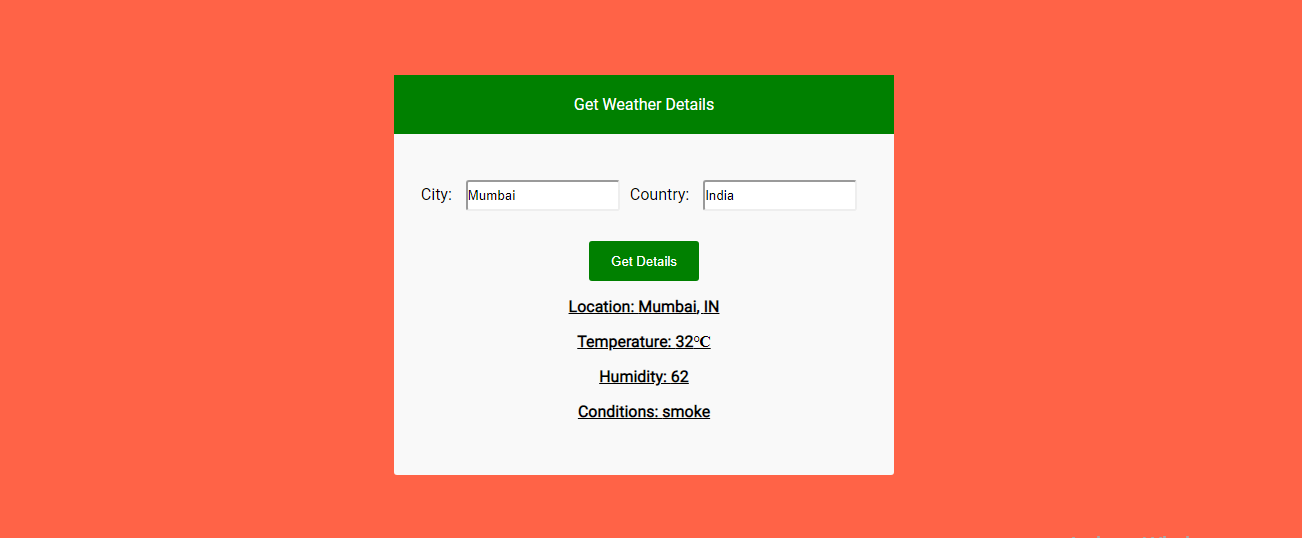
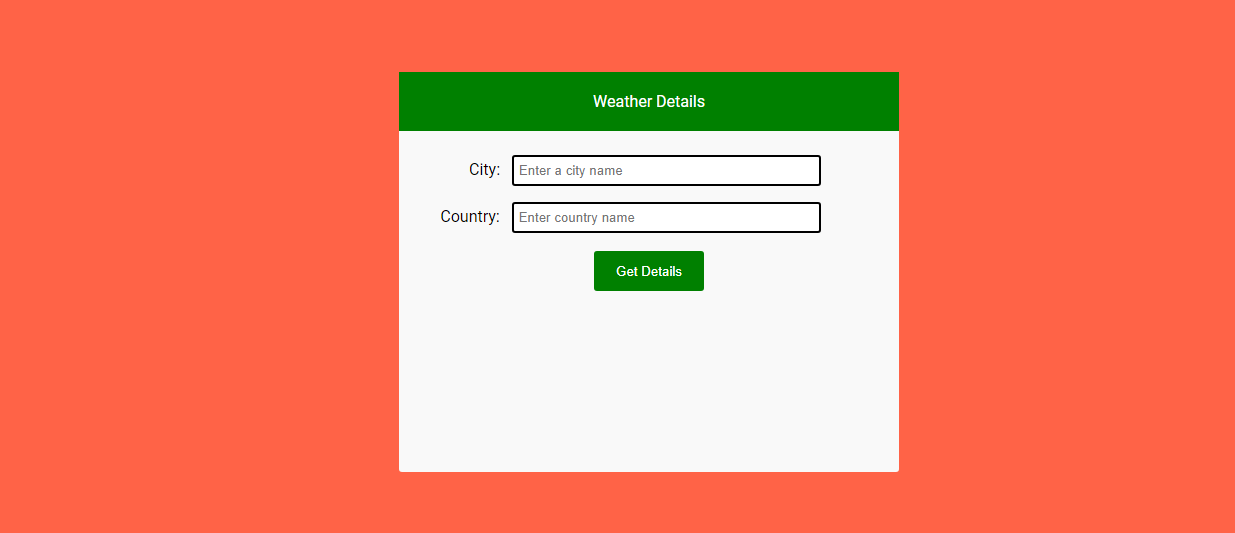
ui enchancement

diff --git a/src/App.css b/src/App.css
@@ -19,20 +19,28 @@ body {
   background-color: green;
 }
 .form {
-  display: inline;
+  display: block;
+
 }
 .labels {
   font-weight: 800px;
 }
+.left{
+  margin-left: -29px;
+}
 .input,
 input[type="text"] {
-  width: 30%;
+  
+  padding-left:5px;
+  width: 60%;
   height: 25px;
-  margin: 30px 10px;
+  margin: 8px ;
   outline: none;
+  border:2px solid #000;
   border-radius: 3px;
 }
 .btn-submit {
+  margin-top: 10px;
   background-color: green;
   border: green;
   border-radius: 3px;
@@ -40,8 +48,10 @@ input[type="text"] {
   height: 40px;
   color: #fff;
   outline: none;
+
 }
 .p-response {
   text-decoration: underline;
-  font-weight: 700;
+  margin:15px; 
+  font-weight: 500;
 }

diff --git a/src/components/Form.js b/src/components/Form.js
@@ -12,7 +12,8 @@ function Form(props) {
           placeholder="Enter a city name"
           required
         />
-        <label className="labels">Country: </label>
+        <br />
+        <label className="labels left">Country: </label>
         <input
           type="text"
           name="country"
@@ -20,6 +21,7 @@ function Form(props) {
           placeholder="Enter country name"
           required
         />
+        <br />
         <button type="submit" className="btn-submit">
           Get Details
         </button>

diff --git a/src/App.js b/src/App.js
@@ -47,7 +47,7 @@ class App extends Component {
   render() {
     return (
       <div className="card">
-        <p className="p">Get Weather Details</p>
+        <p className="p">Weather Details</p>
         <Form getWeatherData={this.getWeatherData} />
         <Weather
           temperature={this.state.temperature}
